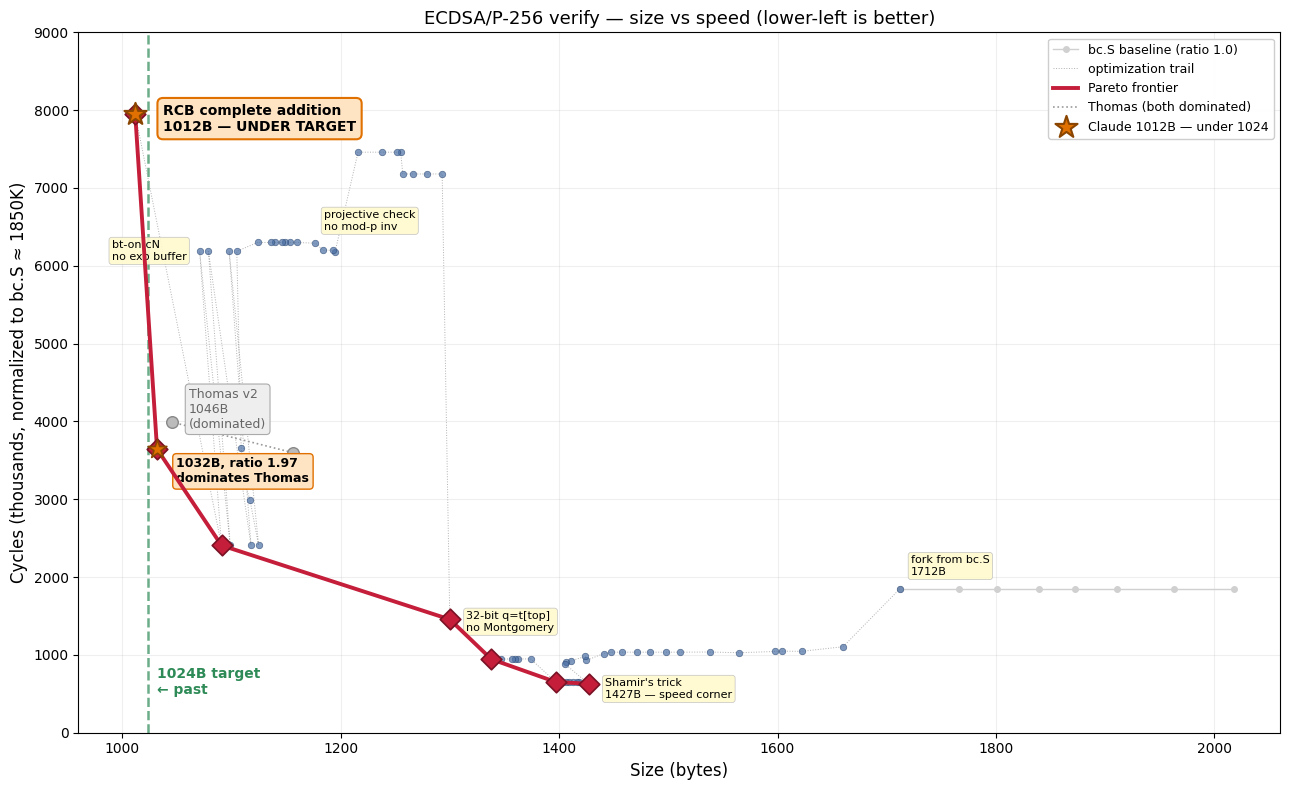
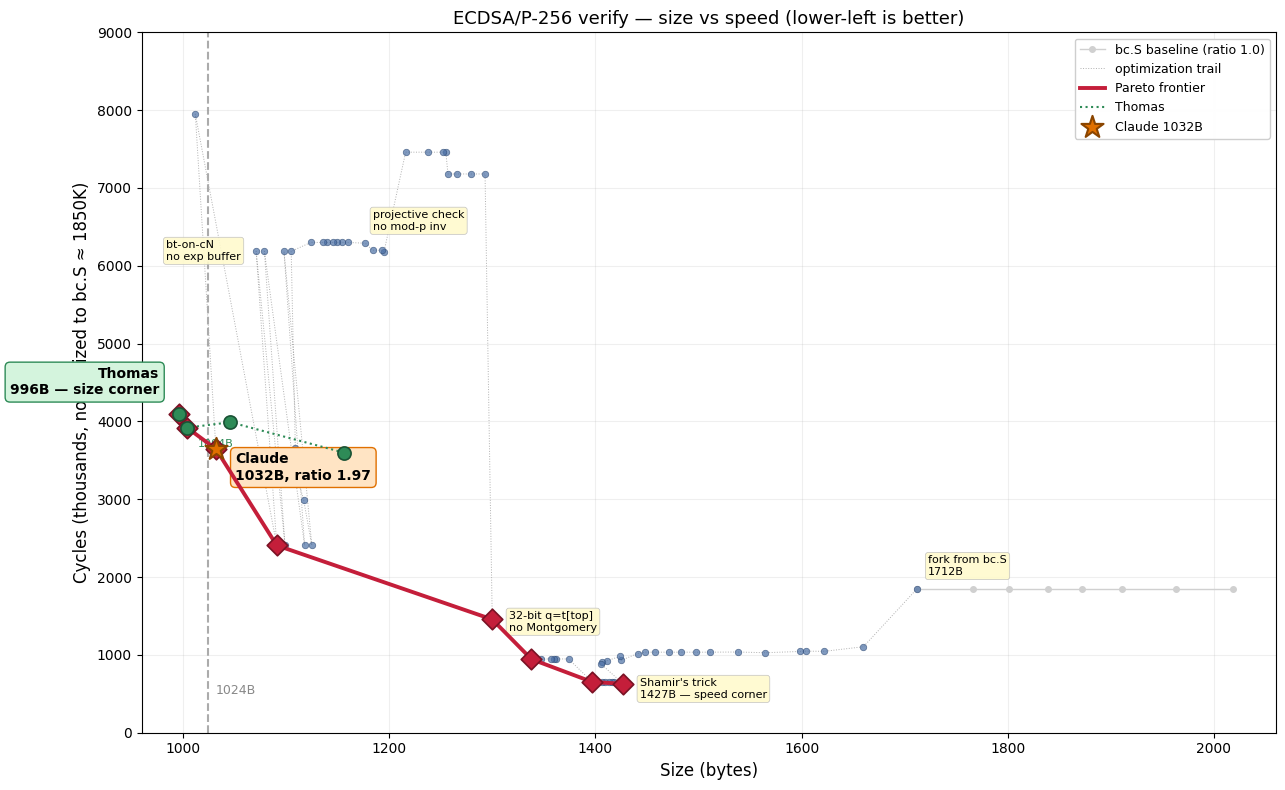
Chart: Thomas v3/v4 at 1004B and 996B — retakes size corner
Thomas now has FOUR points: v1(1156), v2(1046), v3(1004), v4(996).
v3 and v4 both dominate our 1012B SMALL_MUL8 (smaller AND faster —
his ratio ~2.1-2.2 vs our 4.3).  Both under 1024.

Our 1032B default stays Pareto: ratio 1.97 beats his 2.12 and 2.22.
We hold the speed side; he holds size.

Frontier: [996,4100] [1004,3920] [1032,3645] [1091,2407] ...
Two Thomas points, then all ours.

diff --git a/docs/plot_history.py b/docs/plot_history.py
@@ -51,9 +51,12 @@ TRAIL = [
     (1032, 3645, None),   # default — CLAUDE star
 ]
 
-THOMAS_V1 = (1156, 3600)
-THOMAS    = (1046, 3990)
-CLAUDE    = (1012, 7950)
+# Thomas's track: v1, v2, v3 (1004B), v4 (996B).
+# v3 and v4 BOTH dominate our 1012B (smaller AND faster).
+# Our 1032B stays Pareto (faster than any Thomas point).
+THOMAS_TRACK = [(1156, 3600), (1046, 3990), (1004, 3920), (996, 4100)]
+THOMAS    = (996, 4100)     # size corner now
+CLAUDE    = (1032, 3645)    # our best Pareto point — speed at this size
 TARGET    = 1024
 
 def pareto(pts):
@@ -65,7 +68,7 @@ def pareto(pts):
     front.sort(key=lambda i: pts[i][0])
     return front
 
-ALL_XY = [(b, c) for b, c, _ in TRAIL] + [THOMAS, THOMAS_V1]
+ALL_XY = [(b, c) for b, c, _ in TRAIL] + THOMAS_TRACK
 FRONT = pareto(ALL_XY)
 
 # ======================================================================
@@ -91,41 +94,39 @@ ax.plot(px, py, '-', color='#c41e3a', linewidth=2.8, zorder=4,
 ax.scatter(px, py, c='#c41e3a', s=110, marker='D',
            edgecolors='#7a1225', linewidths=1.2, zorder=5)
 
-# Thomas track — BOTH DOMINATED now.  Gray, no frontier diamond.
-ttx, tty = [THOMAS_V1[0], THOMAS[0]], [THOMAS_V1[1], THOMAS[1]]
-ax.plot(ttx, tty, ':', color='#999', linewidth=1.2, zorder=3,
-        label='Thomas (both dominated)')
-ax.scatter(ttx, tty, c='#bbb', s=70, marker='o',
-           edgecolors='#888', linewidths=1, zorder=3)
-ax.annotate(f'Thomas v2\n{THOMAS[0]}B\n(dominated)', THOMAS,
-            textcoords="offset points", xytext=(12, -4), fontsize=9,
-            color='#666', bbox=dict(boxstyle='round,pad=0.3',
-            fc='#eee', ec='#aaa', lw=0.8))
+# Thomas track — 4 points.  v3/v4 (1004B, 996B) RETAKE the size corner,
+# both under 1024, both faster than our SMALL_MUL8.  v1/v2 dominated.
+ttx = [p[0] for p in THOMAS_TRACK]
+tty = [p[1] for p in THOMAS_TRACK]
+ax.plot(ttx, tty, ':', color='#2e8b57', linewidth=1.5, zorder=4,
+        label='Thomas')
+ax.scatter(ttx, tty, c='#2e8b57', s=90, marker='o',
+           edgecolors='#1a5235', linewidths=1.2, zorder=5)
+ax.annotate(f'Thomas\n{THOMAS[0]}B — size corner', THOMAS,
+            textcoords="offset points", xytext=(-14, 14), fontsize=10,
+            fontweight='bold', ha='right',
+            bbox=dict(boxstyle='round,pad=0.35', fc='#d4f4dd',
+            ec='#2e8b57', lw=1))
+ax.annotate(f'{THOMAS_TRACK[2][0]}B', THOMAS_TRACK[2],
+            textcoords="offset points", xytext=(8, -14), fontsize=8,
+            color='#2e8b57')
 
-# Claude stars — TWO of them.  Size floor + the Thomas-killer.
-CLAUDE_FAST = (1032, 3645)  # dominates Thomas v2 on both axes
+# Claude star — our best Pareto point.  Faster than any Thomas point.
 ax.scatter([CLAUDE[0]], [CLAUDE[1]], c='#e07000', s=280, marker='*',
            edgecolors='#8a4500', linewidths=1.5, zorder=6,
-           label=f'Claude {CLAUDE[0]}B — under 1024')
-ax.annotate(f'RCB complete addition\n{CLAUDE[0]}B — UNDER TARGET',
-            CLAUDE, textcoords="offset points", xytext=(20, -12),
+           label=f'Claude {CLAUDE[0]}B')
+ax.annotate(f'Claude\n{CLAUDE[0]}B, ratio {CLAUDE[1]/1850:.2f}',
+            CLAUDE, textcoords="offset points", xytext=(14, -22),
             fontsize=10, fontweight='bold',
-            bbox=dict(boxstyle='round,pad=0.4', fc='#ffe4c4',
-                      ec='#e07000', lw=1.5))
-ax.scatter([CLAUDE_FAST[0]], [CLAUDE_FAST[1]], c='#e07000', s=200, marker='*',
-           edgecolors='#8a4500', linewidths=1.2, zorder=6)
-ax.annotate(f'{CLAUDE_FAST[0]}B, ratio {CLAUDE_FAST[1]/1850:.2f}\ndominates Thomas',
-            CLAUDE_FAST, textcoords="offset points", xytext=(14, -24),
-            fontsize=9, fontweight='bold',
-            bbox=dict(boxstyle='round,pad=0.3', fc='#ffe4c4',
+            bbox=dict(boxstyle='round,pad=0.35', fc='#ffe4c4',
                       ec='#e07000', lw=1))
 
-# 1024 B target line — we're PAST it.
-ax.axvline(TARGET, color='#2e8b57', linestyle='--', linewidth=1.8,
+# 1024 B target line — Thomas is past it now; we're at 1012 (dominated).
+ax.axvline(TARGET, color='#888', linestyle='--', linewidth=1.5,
            alpha=0.7, zorder=1)
-ax.annotate(f'{TARGET}B target\n← past', (TARGET, 500),
-            textcoords="offset points", xytext=(6, 0), fontsize=10,
-            color='#2e8b57', fontweight='bold')
+ax.annotate(f'{TARGET}B', (TARGET, 500),
+            textcoords="offset points", xytext=(6, 0), fontsize=9,
+            color='#888')
 
 # Turning-point labels only — the path, not every step
 LABEL_OFFSETS = {
